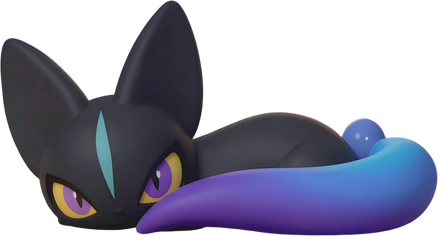
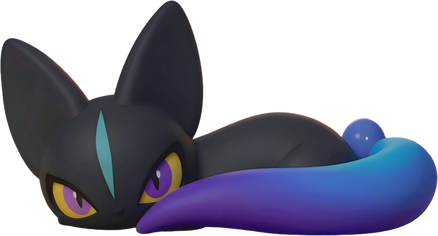
feat: 休息/拖拽素材更新（休息2/拎起3）+ 头部比例对齐 + 面板避让
- sleep=休息2(更新版趴卧 438x236)、walk=拎起3(悬垂 242x460)
- 缩放按眼距对齐 idle 锚点（头部视觉尺寸一致；sleep 受画布宽 438 上限略小）
- main: 气泡避让设置窗（重叠时外移）、任务栏模式面板垂直居中猫身、
  showSettings 后触发气泡重定位、dock 每次唤出 moveTop

Changed region(s): [[0.8014, 0.5932, 0.9498, 0.7119], [0.1187, 0.7712, 0.1484, 0.8008]]

diff --git a/src/renderer/skins/cat/skin-cat.js b/src/renderer/skins/cat/skin-cat.js
@@ -76,7 +76,9 @@
         // 脚底对齐画布底：各姿态底部留白不同（idle 14px / sleep 89px…），
         // 按图片底边会悬空。bottomRow 无数据（异常）时回退图片底边。
         const oy = cvs.height - 1 - (bottomRow[pose] ?? img.height - 1);
-        const filter = dragging ? "none" : (MOOD_FILTER[pose] || "none");
+        // 光效按 mood 名查表（alert 红光 / celebrate 紫光 / ask 青光）——
+        // 旧代码误用 pose 名查（crouch/run），红紫两色从未生效
+        const filter = dragging ? "none" : (MOOD_FILTER[mood] || "none");
         const breath = Math.sin((t / BREATH.period) * Math.PI * 2);
         // 单层渲染：整只猫（含尾巴）围绕底部中心一体呼吸——不再分层，无接缝
         const cx = cvs.width / 2, cy = cvs.height;
